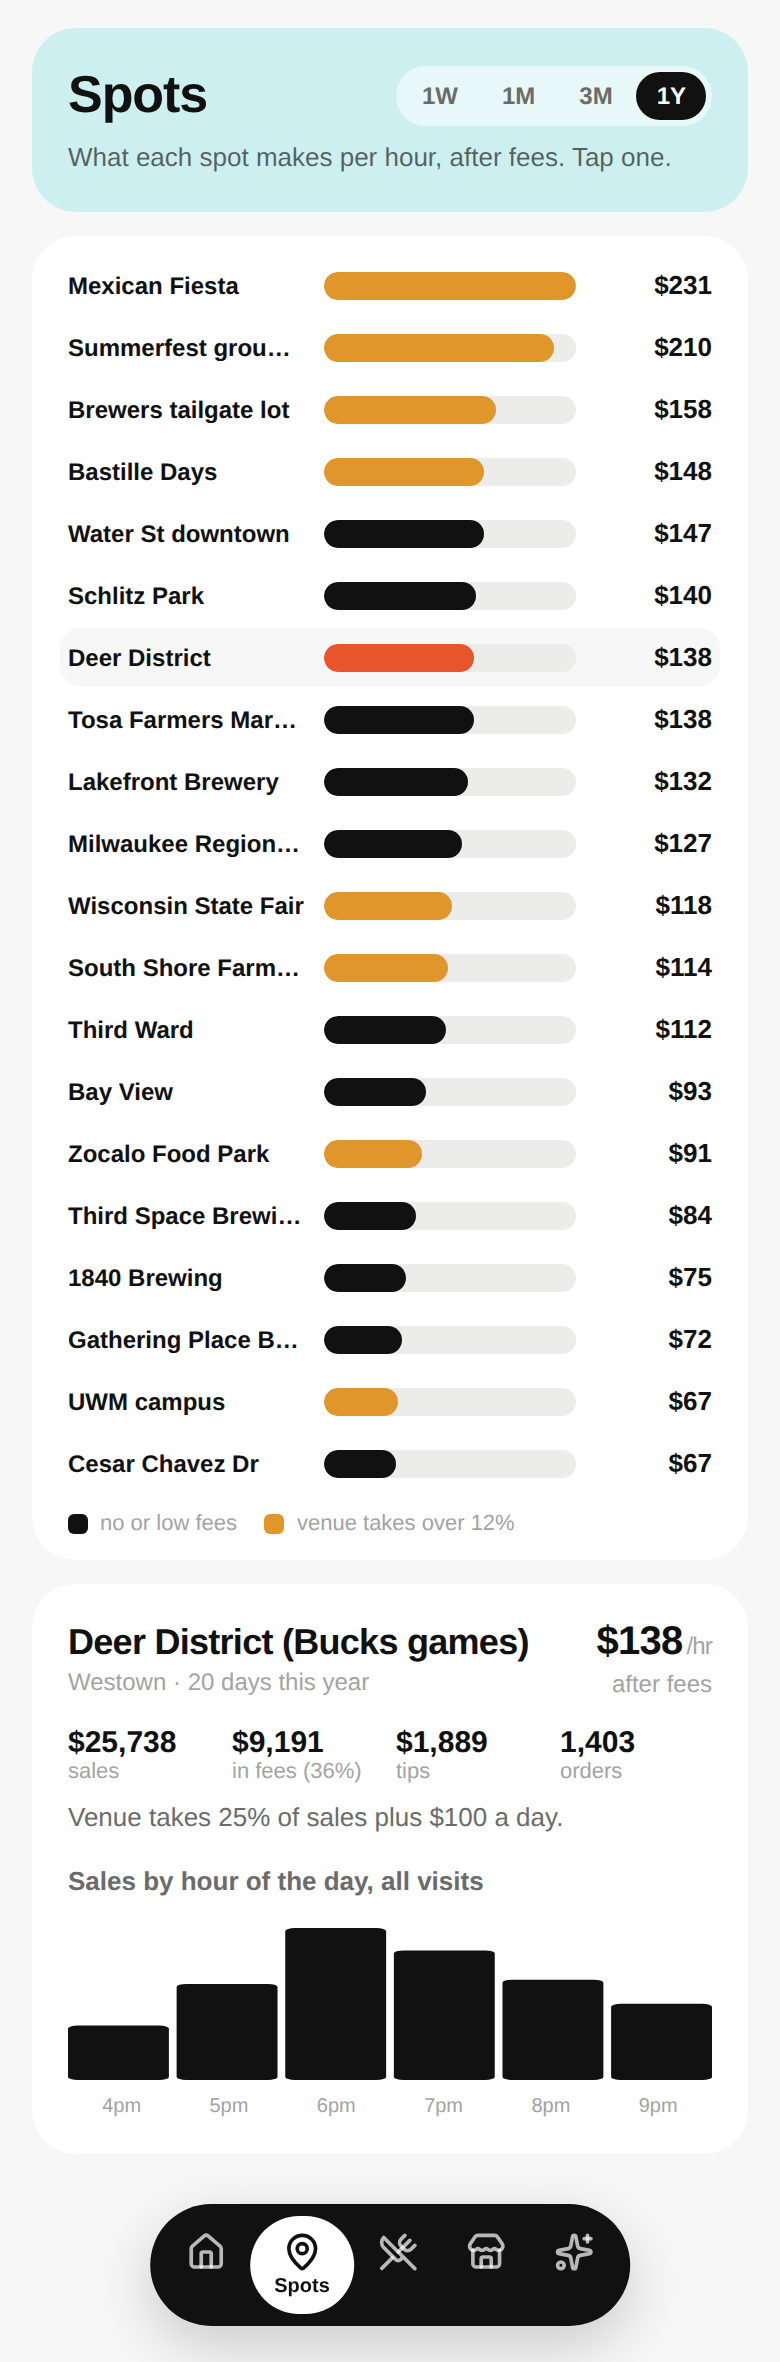
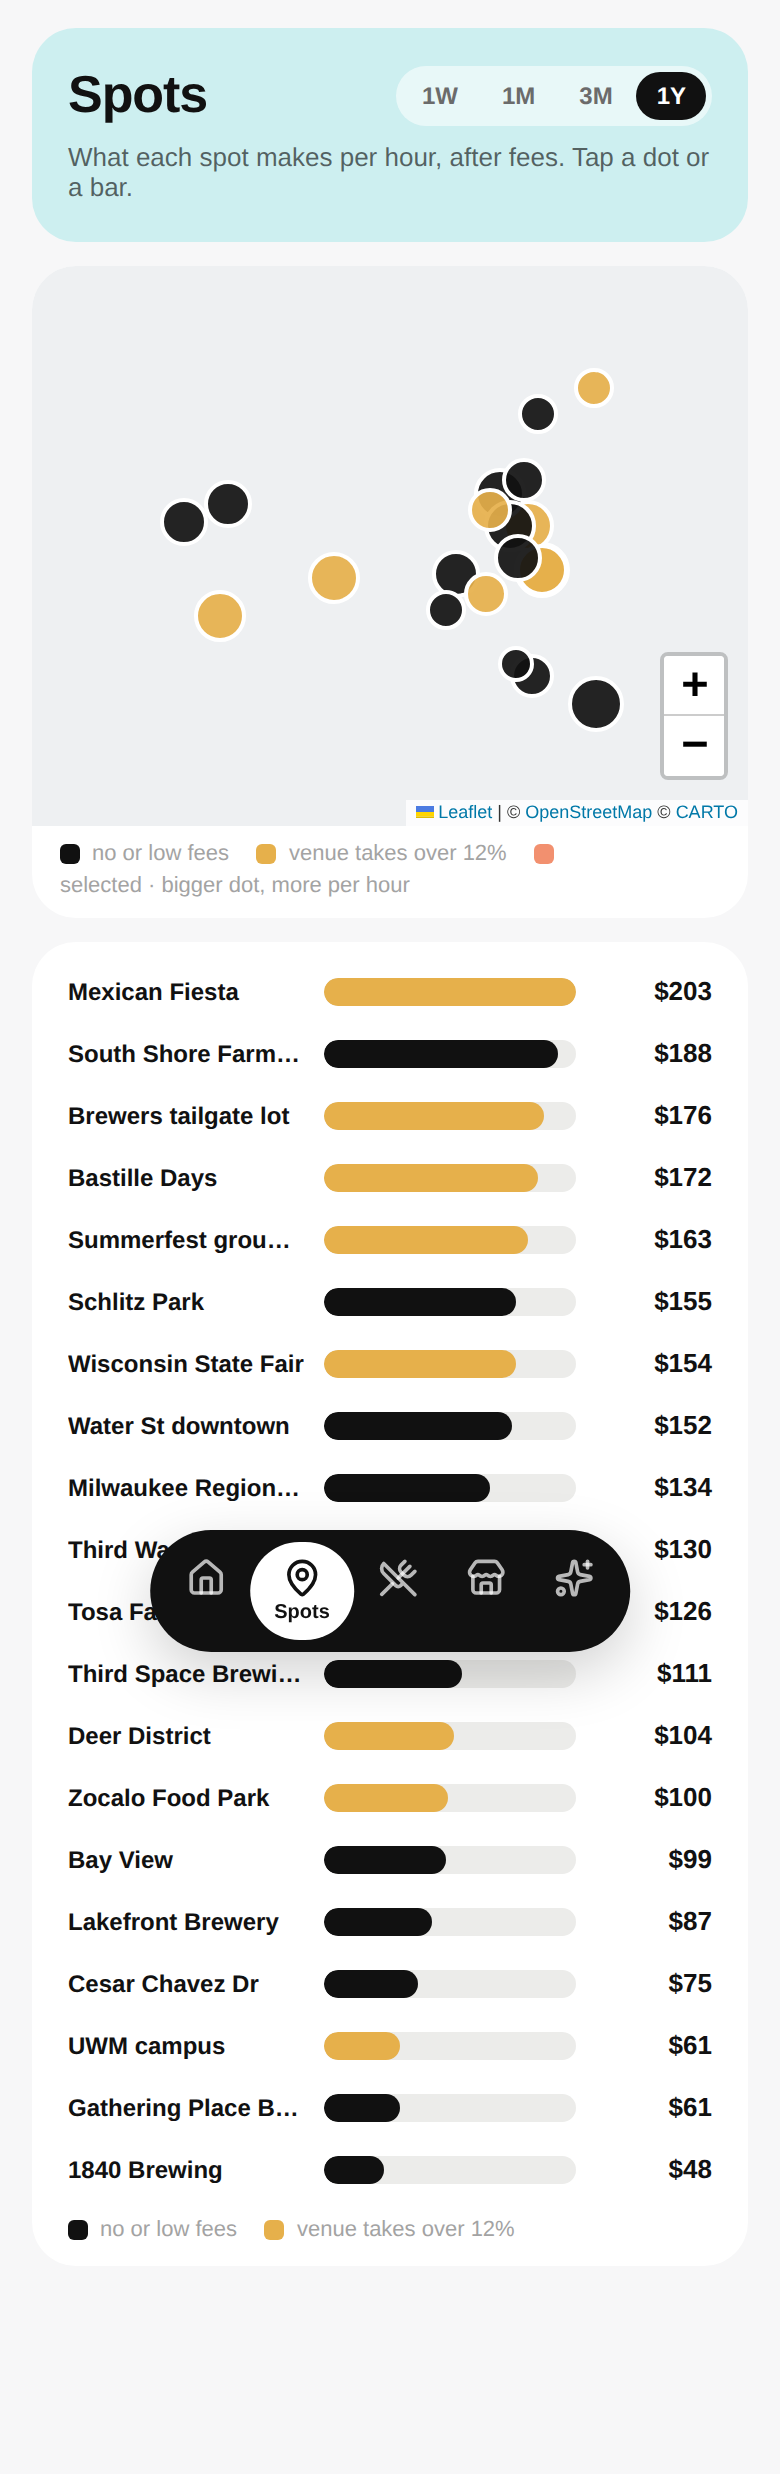
Map of Milwaukee on the Spots tab
Leaflet with free Carto tiles, no key. A dot per spot sized by what it
makes per hour after fees, amber where the venue takes over 12%, coral
when selected; tapping a dot or a bar opens the detail card.

Claude-Session: https://claude.ai/code/session_011kULvXi1EhLGoQfkcWDNEp

diff --git a/food-truck-app/src/components/SpotMap.tsx b/food-truck-app/src/components/SpotMap.tsx
@@ -1,0 +1,53 @@
+import { useEffect, useRef } from 'react'
+import L from 'leaflet'
+import 'leaflet/dist/leaflet.css'
+import { money, type SpotStat } from '../lib/data'
+
+// Milwaukee map of the spots. Dot size = what the spot makes per hour after
+// fees; amber = the venue takes over 12%; the selected spot is coral.
+export function SpotMap({ spots, sel, onSelect }: { spots: SpotStat[]; sel: string | null; onSelect: (id: string | null) => void }) {
+  const ref = useRef<HTMLDivElement>(null)
+  const mapRef = useRef<L.Map | null>(null)
+  const layerRef = useRef<L.LayerGroup | null>(null)
+
+  useEffect(() => {
+    if (!ref.current || mapRef.current) return
+    const map = L.map(ref.current, { zoomControl: false, attributionControl: true, scrollWheelZoom: false })
+    L.tileLayer('https://{s}.basemaps.cartocdn.com/light_all/{z}/{x}/{y}{r}.png', {
+      attribution: '&copy; <a href="https://www.openstreetmap.org/copyright">OpenStreetMap</a> &copy; <a href="https://carto.com/attributions">CARTO</a>',
+      subdomains: 'abcd', maxZoom: 19,
+    }).addTo(map)
+    L.control.zoom({ position: 'bottomright' }).addTo(map)
+    map.setView([43.035, -87.93], 11)
+    mapRef.current = map
+    layerRef.current = L.layerGroup().addTo(map)
+    return () => { map.remove(); mapRef.current = null }
+  }, [])
+
+  useEffect(() => {
+    const map = mapRef.current, layer = layerRef.current
+    if (!map || !layer) return
+    layer.clearLayers()
+    const max = Math.max(1, ...spots.map((s) => s.netPerHour))
+    for (const s of spots) {
+      const fee = s.gross ? s.fees / s.gross : 0
+      const on = s.loc.id === sel
+      const r = 4 + 9 * Math.sqrt(s.netPerHour / max)
+      const m = L.circleMarker([s.loc.lat, s.loc.lon], {
+        radius: on ? r + 3 : r,
+        color: '#fff', weight: 2,
+        fillColor: on ? '#f2906f' : fee > 0.12 ? '#e6b04b' : '#111111',
+        fillOpacity: 0.92,
+      })
+      m.bindTooltip(`${s.loc.name.replace(/ \(.*\)/, '')}: ${money(s.netPerHour)}/hr`, { direction: 'top', offset: [0, -r], opacity: 0.95 })
+      m.on('click', () => onSelect(on ? null : s.loc.id))
+      m.addTo(layer)
+    }
+    if (spots.length) {
+      const b = L.latLngBounds(spots.map((s) => [s.loc.lat, s.loc.lon] as [number, number]))
+      map.fitBounds(b.pad(0.25), { maxZoom: 13 })
+    }
+  }, [spots, sel, onSelect])
+
+  return <div ref={ref} className="spotmap" />
+}

diff --git a/food-truck-app/src/screens/Spots.tsx b/food-truck-app/src/screens/Spots.tsx
@@ -1,5 +1,6 @@
 import { useEffect, useRef, useState } from 'react'
 import { Bars, Card, Pills } from '../components/ui'
+import { SpotMap } from '../components/SpotMap'
 import { hourLabel, hourlyFor, money, pct, rangeWindow, spotStats, type RangeKey } from '../lib/data'
 
 export default function Spots({ range, setRange }: { range: RangeKey; setRange: (k: RangeKey) => void }) {
@@ -21,8 +22,15 @@ export default function Spots({ range, setRange }: { range: RangeKey; setRange: 
           <h1>Spots</h1>
           <Pills value={range} onChange={setRange} />
         </header>
-        <div className="label">What each spot makes per hour, after fees. Tap one.</div>
+        <div className="label">What each spot makes per hour, after fees. Tap a dot or a bar.</div>
       </section>
+
+      {spots.length > 0 && (
+        <Card className="mapcard">
+          <SpotMap spots={spots} sel={sel} onSelect={setSel} />
+          <div className="hbar-key"><span className="sw" /> no or low fees <span className="sw warn" /> venue takes over 12% <span className="sw sel" /> selected · bigger dot, more per hour</div>
+        </Card>
+      )}
 
       {spots.length === 0 && <Card>No trading days in this range.</Card>}
 

diff --git a/food-truck-app/src/app.css b/food-truck-app/src/app.css
@@ -492,3 +492,12 @@ body, .shell { font-family: 'Plus Jakarta Sans', -apple-system, sans-serif; }
 .bento-card.marigold { background: var(--marigold); }
 .bento-card.cash { grid-column: 1 / -1; }
 .bento-card.cash .bento-sub { font-size: 13px; }
+
+/* spots map */
+.mapcard { padding: 0; overflow: hidden; }
+.spotmap { height: 280px; width: 100%; background: #eef0f2; }
+.mapcard .hbar-key { padding: 8px 14px 10px; flex-wrap: wrap; row-gap: 4px; }
+.hbar-key .sw.sel { background: var(--accent); margin-left: 8px; }
+.leaflet-container { font-family: inherit; }
+.leaflet-tooltip { font-family: inherit; font-size: 12px; font-weight: 600; border-radius: 10px; border: 0; box-shadow: 0 4px 14px rgba(0,0,0,0.12); padding: 6px 10px; }
+.leaflet-control-attribution { font-size: 9px; }
